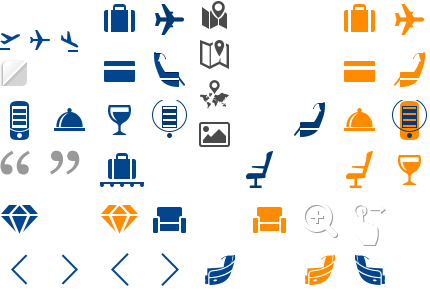
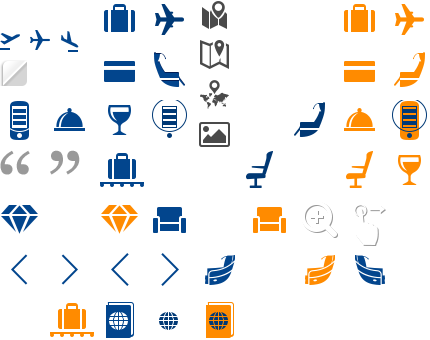
Business page 3

diff --git a/www/htdocs/new/markup/business_3.html b/www/htdocs/new/markup/business_3.html
@@ -1,0 +1,151 @@
+<!DOCTYPE HTML PUBLIC "-//W3C//DTD XHTML 1.0 Transitional//EN" "http://www.w3.org/TR/xhtml1/DTD/xhtml1-transitional.dtd">
+<html xmlns="http://www.w3.org/1999/xhtml" xml:lang="ru" lang="ru" dir="ltr">
+<head>
+    <meta http-equiv="Content-Type" content="text/html; charset=utf-8" />
+    <link rel="stylesheet" href="../css/vendor/aeroflot.css"/>
+    <title>Аэрофлот</title>
+
+    <link type="text/css" rel="stylesheet" media="screen" href="https://www.aeroflot.ru/cms/sites/all/themes/aeroflot/common/full/reset.css?E" />
+    <link type="text/css" rel="stylesheet" media="screen" href="https://www.aeroflot.ru/cms/sites/all/themes/aeroflot/common/full/layout.css?E" />
+    <link rel="stylesheet" href="../css/comfort.css">
+    <link rel="stylesheet" href="../css/fancybox.css">
+
+    <!--[if IE 7]>
+    <link rel="stylesheet" type="text/css" href="https://www.aeroflot.ru/cms/sites/all/themes/aeroflot/common/full/ie7.css?E" />
+    <link rel="stylesheet" type="text/css" href="https://www.aeroflot.ru/cms/sites/all/themes/aeroflot/static/css/ie7.css?E" />
+    <![endif]-->
+    <!--[if IE 8]>
+    <link rel="stylesheet" type="text/css" href="https://www.aeroflot.ru/cms/sites/all/themes/aeroflot/static/css/ie8.css?E" />
+    <![endif]-->
+    <!--[if IE 9]>
+    <link rel="stylesheet" type="text/css" href="https://www.aeroflot.ru/cms/sites/all/themes/aeroflot/static/css/ie9.css?E" />
+    <![endif]-->
+
+    <script type="text/javascript" src="https://www.aeroflot.ru/cms/misc/jquery-1.11.0.min.js?E"></script>
+    <script type="text/javascript" src="https://www.aeroflot.ru/cms/sites/all/themes/aeroflot/static/js/jquery.flash-1.0.1.min.js?3"></script>
+    <script type="text/javascript" src="https://www.aeroflot.ru/cms/sites/all/themes/aeroflot/static/js/jquery.bootstrap.tooltip.min.js?3"></script>
+    <script type="text/javascript" src="https://www.aeroflot.ru/cms/sites/all/themes/aeroflot/static/js/jquery.fancyfields.min.js?3"></script>
+    <script type="text/javascript" src="https://www.aeroflot.ru/cms/sites/all/themes/aeroflot/static/js/jquery-ui-1.10.4.custom.min.js?3"></script>
+
+    <script src="../js/vendor/jquery.cycle-3.0.3.min.js?3"></script>
+    <script src="../js/vendor/fancybox.js"></script>
+    <script src="../js/jquery.scrollTo.min.js"></script>
+    <script src="../js/jquery.class.js"></script>
+</head>
+<body class="yui-skin-sam page-type-content">
+    <div class="main-body">
+        
+         <script>
+            ;(function($) {
+                    $(function() {
+                        $('a.fancy-img').fancybox({
+                            padding: 30
+                        });
+                        $('a.fancy-iframe').fancybox({
+                            type: 'iframe',
+                            width: 911,
+                            height: 480,
+                            padding: 30
+                        });
+                        $('a.fancy-video').fancybox({
+                            'padding'         : 30,
+                            'autoScale'       : false,
+                            'transitionIn'    : 'none',
+                            'transitionOut'   : 'none',
+                            'width'           : 680,
+                            'height'          : 495,
+                            'type'            : 'swf',
+                            'swf'             : {
+                            'wmode'           : 'transparent',
+                            'allowfullscreen' : 'true'
+                            }
+                        });
+                    });
+                })(jQuery);
+        </script>
+        <div class="af_content">
+            <!-- comfort BEGIN -->
+            <div class="cclWrapper">
+                <div class="cclAnchor_wrapper">
+                    <div class="cclAnchor ccl-anchor-js">
+                        <a href="#anchor1">
+                            <i class="cclIco cclIco-8"></i>
+                            <span>Получение багажа</span>
+                        </a>
+                        <a href="#anchor2">
+                            <i class="cclIco cclIco-13"></i>
+                            <span>Послеполетное обслуживание</span>
+                        </a>
+                    </div>
+                </div>
+                <div class="cclTop">
+                    <div class="cclNav">
+                        <a href="comfort_1.html" class="cclNav-before">Перед полетом</a>
+                        <a href="comfort_2.html" class="cclNav-underway">На борту</a>
+                        <a href="comfort_3.html" class="cclNav-after current">После полета</a>
+                    </div>
+                    <img src="../images/business/top_3.jpg" alt="">
+                    <div class="cclTitle">класс Бизнес</div>
+                </div>
+                <div class="cclContent">
+                    <!-- promo BEGIN -->
+                    <div class="cclPromoText">
+                        <div class="cclPromoText_header">Класс Бизнес в воздухе и на земле</div>
+                        <p>По-настоящему комфортный перелет не заканчивается после приземления самолета. <br/> Приятным завершением путешествия классом Бизнес Аэрофлота станет приоритетная выдача багажа и приоритетное обслуживание на стойках для трансферных пассажиров.
+                            <br/> Чтобы Ваше путешествие было комфортным от начала и до конца, следуйте указателям <br/> с логотипом SkyPriority.</p>
+                    </div>
+                    <!-- promo END -->
+                    <div class="cclHeader" id="anchor1">
+                        <i class="cclIco cclIco-8"></i>
+                        Получение багажа
+                    </div>
+                    <div class="ccl_clear cclText">
+                        <img src="../images/comfort/11.jpg" width="359" height="209" class="cclText-r" alt="">
+                        <div class="ccl_zfix">
+                            <div class="cclText_header">Процедура получения багажа</div>
+                            <p>Багаж пассажиров класса Бизнес доставляется в зал прилета и выдается в первую очередь.</p>
+                            <p>Для получения багажа по прибытии в аэропорт назначения Вам необходимо иметь при себе посадочный и отрывной талон с номером багажной бирки.</p>
+                        </div>
+                    </div>
+                    <div class="cclHeader" id="anchor2">
+                        <i class="cclIco cclIco-13"></i>
+                        Послеполетное обслуживание
+                    </div>
+                    <div class="cclText">
+                        <div class="ccl_clear">
+                            <div class="cclText_column side">
+                                <img src="../images/business/7.jpg" alt=""/>
+                                <div class="cclText_header">Привилегии</div>
+                                <p>Элитные участники программы «Аэрофлот Бонус» вместе с картой участника получают багажные бирки. Повесьте Вашу бирку на багаж перед его регистрацией, чтобы воспользоваться услугой приоритетного обслуживания и выдачи багажа после полета.</p>
+                            </div>
+                            <div class="cclText_column">
+                                <img src="../images/business/6.jpg" alt=""/>
+                                <p>Послеполетные процедуры включают прохождение послеполетного паспортного контроля и регистрации на следующий сегмент перелета для трансферных пассажиров с приоритетным обслуживание на стойках для трансферных пассажиров, отмеченных логотипом SkyPriority.</p>
+                                <p>Если после полета Вы не получили багаж, Вы можете обратиться к сотрудникам контакт-центра Аэрофлота или <a href="#">отправить обращение</a></p>
+                            </div>
+                        </div>
+                    </div>
+                </div>
+                <!-- links BEGIN -->
+                <div class="cclLinks">
+                    <a href="#" class="cclLinks_item marked">
+                        <span class="cclLinks_title">Медицинская информация</span>
+                        <img src="../images/links/19.jpg" alt="">
+                    </a>
+                    <a href="#" class="cclLinks_item">
+                        <span class="cclLinks_title">Схема аэропорта, информация <br> о терминалах, <br> о паркингах</span>
+                        <img src="../images/links/20.jpg" alt="">
+                    </a>
+                    <a href="#" class="cclLinks_item marked">
+                        <span class="cclLinks_title">Заказ такси</span>
+                        <img src="../images/links/21.jpg" alt="">
+                    </a>
+                </div>
+                <!-- links END -->
+                <a href="business_2.html" class="cclOnBoard_reverse">На борту</a>
+            </div>
+            <!-- comfort END -->
+        </div>
+    </div>
+</body>
+</html>

diff --git a/www/htdocs/new/js/jquery.class.d3.js b/www/htdocs/new/js/jquery.class.d3.js
@@ -559,7 +559,6 @@ aeroclass.chair = function (obj) {
                         try {
                             ctx.drawImage(that.images['light'][i], 0, 0);
                             if (plane_id === '330') {
-                                console.log('tlenbow330')
                                 bg.fillStyle = aeroclass.tlenbow330[i];
                             } else {
                                 bg.fillStyle = aeroclass.tlenbow[i];
@@ -570,7 +569,6 @@ aeroclass.chair = function (obj) {
                         }
                     } else {
                         if (plane_id === '330') {
-                            console.log('tlenbow330')
                             bg.css({
                                 backgroundColor: aeroclass.tlenbow330[i]
                             });
@@ -637,7 +635,6 @@ aeroclass.chair = function (obj) {
                     try {
                         ctx.drawImage(that.images['light'][i], 0, 0);
                         if (plane_id === '330') {
-                            console.log('tlenbow330')
                             bg.fillStyle = aeroclass.tlenbow330[i];
                         } else {
                             bg.fillStyle = aeroclass.tlenbow[i];
@@ -654,7 +651,6 @@ aeroclass.chair = function (obj) {
                         aeroclass.log(e);
                     }
                     if (plane_id === '330') {
-                        console.log('tlenbow330')
                         bg.css({
                             backgroundColor: aeroclass.tlenbow330[i]
                         });

diff --git a/www/htdocs/new/sass/class.sass b/www/htdocs/new/sass/class.sass
@@ -320,6 +320,13 @@ body
             left: 43px
             width: 44px
             background-position: -100px -150px
+            .cclAnchor &
+                background-position: 0 -300px
+            .cclAnchor a:hover &
+                background-position: -50px -300px
+            .cclAnchor .current &,
+            .cclAnchor .current:hover &
+                background-position: -100px -150px
         &-9
             background-position: -240px -150px
             .cclAnchor &
@@ -356,6 +363,15 @@ body
             .cclAnchor .current &,
             .cclAnchor .current:hover &
                 background-position: -200px -250px
+        &-13
+            background-position: -100px -300px
+            .cclAnchor &
+                background-position: -150px -300px
+            .cclAnchor a:hover &
+                background-position: -200px -300px
+            .cclAnchor .current &,
+            .cclAnchor .current:hover &
+                background-position: -100px -300px
     &OnBoard
         display: block
         text-align: right

diff --git a/www/htdocs/new/css/comfort.css b/www/htdocs/new/css/comfort.css
@@ -383,6 +383,15 @@ body {
   width: 44px;
   background-position: -100px -150px;
 }
+.cclAnchor .cclIco-8 {
+  background-position: 0 -300px;
+}
+.cclAnchor a:hover .cclIco-8 {
+  background-position: -50px -300px;
+}
+.cclAnchor .current .cclIco-8, .cclAnchor .current:hover .cclIco-8 {
+  background-position: -100px -150px;
+}
 .cclIco-9 {
   background-position: -240px -150px;
 }
@@ -430,6 +439,18 @@ body {
 }
 .cclAnchor .current .cclIco-12, .cclAnchor .current:hover .cclIco-12 {
   background-position: -200px -250px;
+}
+.cclIco-13 {
+  background-position: -100px -300px;
+}
+.cclAnchor .cclIco-13 {
+  background-position: -150px -300px;
+}
+.cclAnchor a:hover .cclIco-13 {
+  background-position: -200px -300px;
+}
+.cclAnchor .current .cclIco-13, .cclAnchor .current:hover .cclIco-13 {
+  background-position: -100px -300px;
 }
 .cclOnBoard, .cclOnBoard_reverse {
   display: block;
